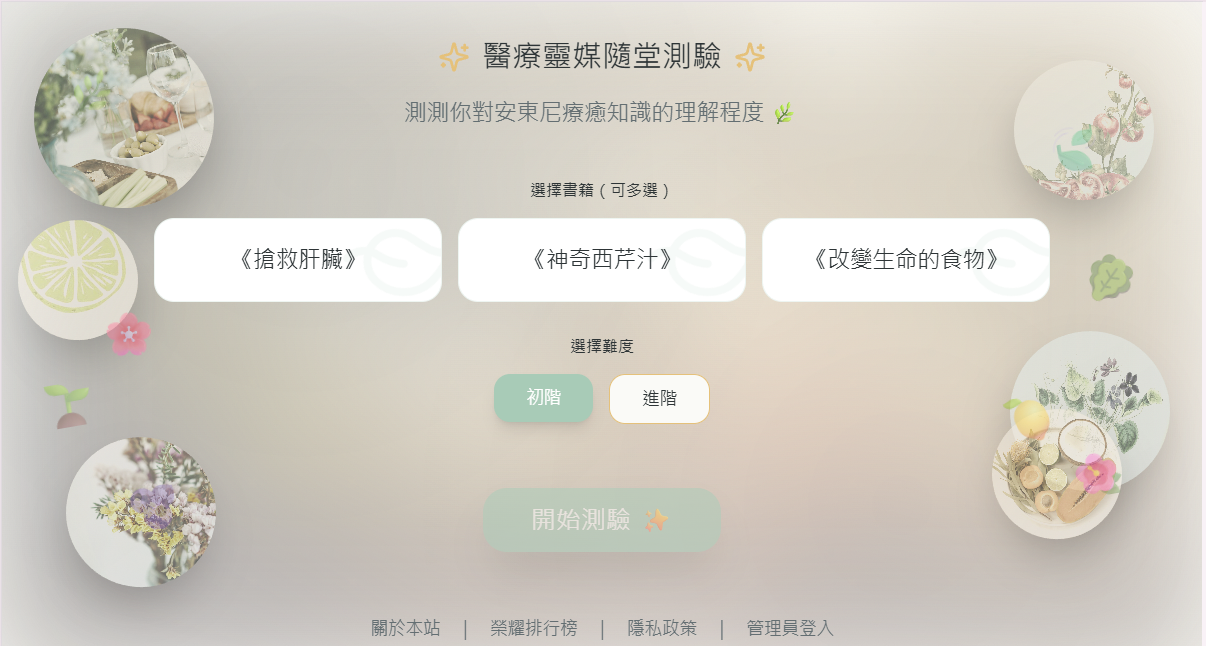
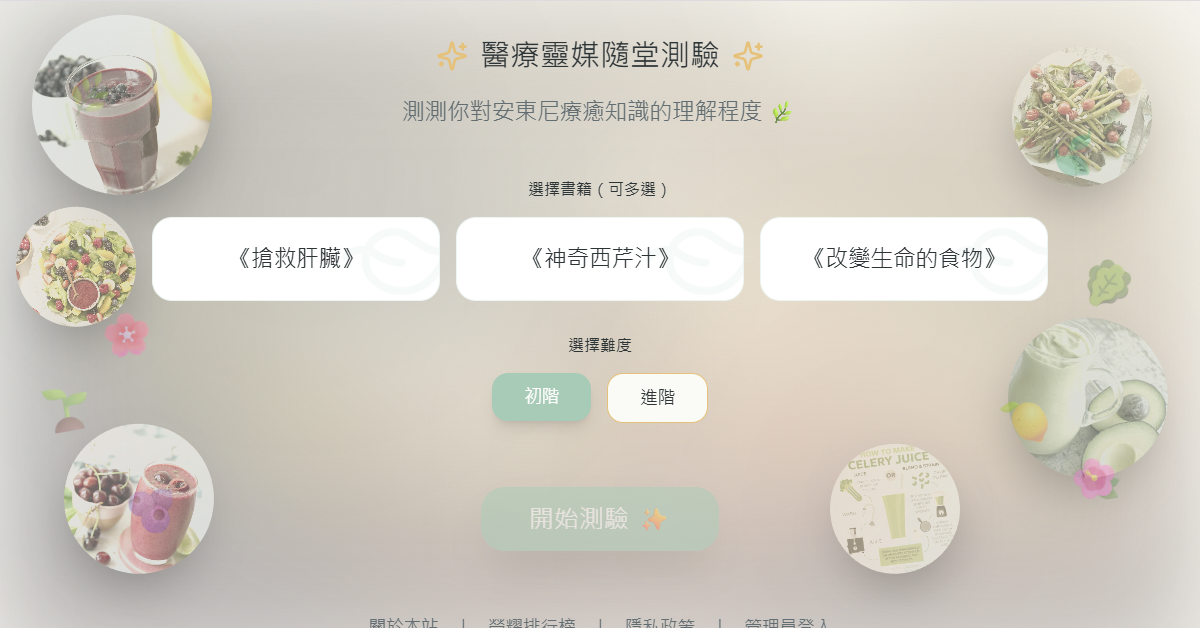
change og-image

diff --git a/src/components/NatureDecoration.tsx b/src/components/NatureDecoration.tsx
@@ -23,43 +23,43 @@ const floatingAnimation = {
 export function NatureDecoration() {
   const elements: NatureElement[] = [
     {
-      src: "https://images.pexels.com/photos/5961370/pexels-photo-5961370.jpeg",
-      alt: "celery",
+      src: "https://www.medicalmedium.com/blog-images-optimised/Advanced-Heavy-Metal-Detox-Smoothie.jpg",
+      alt: "Smoothie",
       size: 180,
       rotation: -15,
       delay: 0,
     },
     {
-      src: "https://thumbs.dreamstime.com/z/%E7%BA%A2%E6%95%B4%E5%88%87%E6%9E%9C%E5%8F%B6%E8%8A%B1%E7%95%AA%E8%8C%84%E6%A4%8D%E7%89%A9-%E6%B0%B4%E5%BD%A9%E7%BB%98%E8%94%AC%E8%8F%9C%E5%89%AA%E8%B4%B4%E7%94%BB-%E7%BA%A2%E6%95%B4%E5%88%87%E7%89%87%E6%9E%9C%E5%8F%B6%E8%8A%B1%E7%95%AA%E8%8C%84%E6%A4%8D%E7%89%A9-376923630.jpg?ct=jpeg",
-      alt: "blueberries",
+      src: "https://www.medicalmedium.com/blog-images-optimised/asparagus-salad-recipe.jpg",
+      alt: "salad",
       size: 140,
       rotation: 10,
       delay: 1,
     },
     {
-      src: "https://encrypted-tbn0.gstatic.com/images?q=tbn:ANd9GcQyUiDOGhkCvMCYXozGXvcGxMrNeyZg1hxTZa76OkvuGFDZi5pu-racDOXkGNP0z2Pr7go&usqp=CAU",
-      alt: "lemon",
+      src: "https://www.medicalmedium.com/blog-images-optimised/Berry-Salad.jpg",
+      alt: "Salad",
       size: 120,
       rotation: -20,
       delay: 2,
     },
     {
-      src: "https://thumbs.dreamstime.com/z/%E6%A4%8D%E7%89%A9%E7%9A%84%E4%BE%8B%E8%AF%81-113467997.jpg?ct=jpeg",
+      src: "https://www.medicalmedium.com/blog-images-optimised/avocado-cilantro-dressing.jpg",
       alt: "herbs",
       size: 160,
       rotation: 15,
       delay: 1.5,
     },
     {
-      src: "https://images.unsplash.com/photo-1613291511109-ea3d67e68a25?crop=entropy&cs=tinysrgb&fit=max&fm=jpg&ixid=M3w3Nzg4Nzd8MHwxfHNlYXJjaHwxfHx3aWxkZmxvd2VycyUyMHBhc3RlbHxlbnwxfHx8fDE3NjE4MDg1NTh8MA&ixlib=rb-4.1.0&q=80&w=1080",
-      alt: "wildflowers",
+      src: "https://www.medicalmedium.com/blog-images-optimised/recipes/cherry-lime-smoothie.jpg",
+      alt: "cherry",
       size: 150,
       rotation: 8,
       delay: 0.5,
     },
     {
-      src: "https://images.unsplash.com/photo-1548808918-a33260f83b25?crop=entropy&cs=tinysrgb&fit=max&fm=jpg&ixid=M3w3Nzg4Nzd8MHwxfHNlYXJjaHwxfHxwYXBheWElMjBmcnVpdCUyMGJvdGFuaWNhbHxlbnwxfHx8fDE3NjE4MDg1NTh8MA&ixlib=rb-4.1.0&q=80&w=1080",
-      alt: "papaya",
+      src: "https://www.medicalmedium.com/blog-images-optimised/how-to-make-celery-juice.jpg",
+      alt: "celery",
       size: 130,
       rotation: -12,
       delay: 2.5,
@@ -203,7 +203,7 @@ export function NatureDecoration() {
 
       {/* Bottom Right */}
       <motion.div
-        className="absolute bottom-32 right-20 pointer-events-none"
+        className="absolute bottom-20 right-60 pointer-events-none"
         animate={floatingAnimation}
         style={{ animationDelay: `${elements[5].delay}s` }}
       >

diff --git a/src/components/SEO.tsx b/src/components/SEO.tsx
@@ -5,16 +5,16 @@ interface SEOProps {
   description?: string;
   keywords?: string;
   ogImage?: string;
-  canonical?: string;
 }
 
 export function SEO({
   title = "醫療靈媒隨堂測驗 | Medical Medium Quiz",
   description = "測試您對醫療靈媒書籍的理解程度，挑戰初階或進階題目，獲得專屬等級評定！支援多本書籍選擇，包含單選、多選、填空題型，立即測驗您的健康知識。",
   keywords = "醫療靈媒,Medical Medium,安東尼威廉,測驗,健康知識,自然療法,蔬果汁,排毒,慢性疾病,西洋芹汁",
-  ogImage = "https://yourdomain.com/OG.png",
-  canonical = "https://yourdomain.com/",
+  ogImage = "https://mmquiz.vercel.app/OG.png",
 }: SEOProps) {
+  // 因為是 SPA，所有頁面的 canonical URL 都指向首頁
+  const canonical = "https://mmquiz.vercel.app/";
   return (
     <Helmet>
       <title>{title}</title>

diff --git a/index.html b/index.html
@@ -71,7 +71,7 @@
         "name": "醫療靈媒隨堂測驗",
         "alternateName": "Medical Medium Quiz",
         "description": "測試您對醫療靈媒書籍的理解程度，挑戰初階或進階題目，獲得專屬等級評定！支援多本書籍選擇，包含單選、多選、填空題型。",
-        "url": "https://yourdomain.com/",
+        "url": "https://mmquiz.vercel.app/",
         "applicationCategory": "EducationalApplication",
         "operatingSystem": "All",
         "browserRequirements": "Requires JavaScript. Requires HTML5.",

diff --git a/src/index.css b/src/index.css
@@ -662,6 +662,13 @@
   .right-20 {
     right: calc(var(--spacing) * 20);
   }
+  .right-40 {
+    right: calc(var(--spacing) * 40);
+  }
+
+  .right-60 {
+    right: calc(var(--spacing) * 60);
+  }
 
   .-bottom-2 {
     bottom: calc(var(--spacing) * -2);
